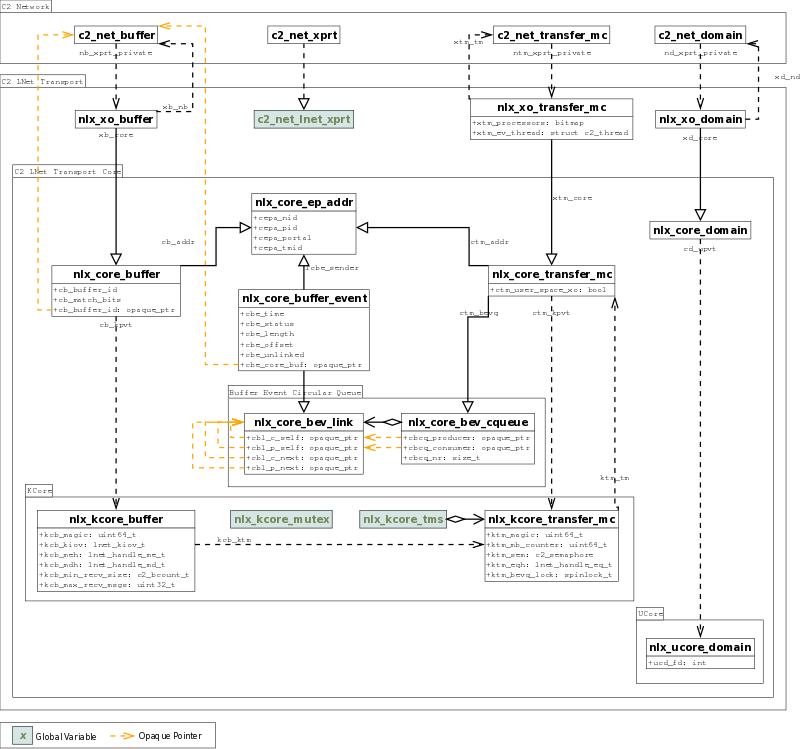
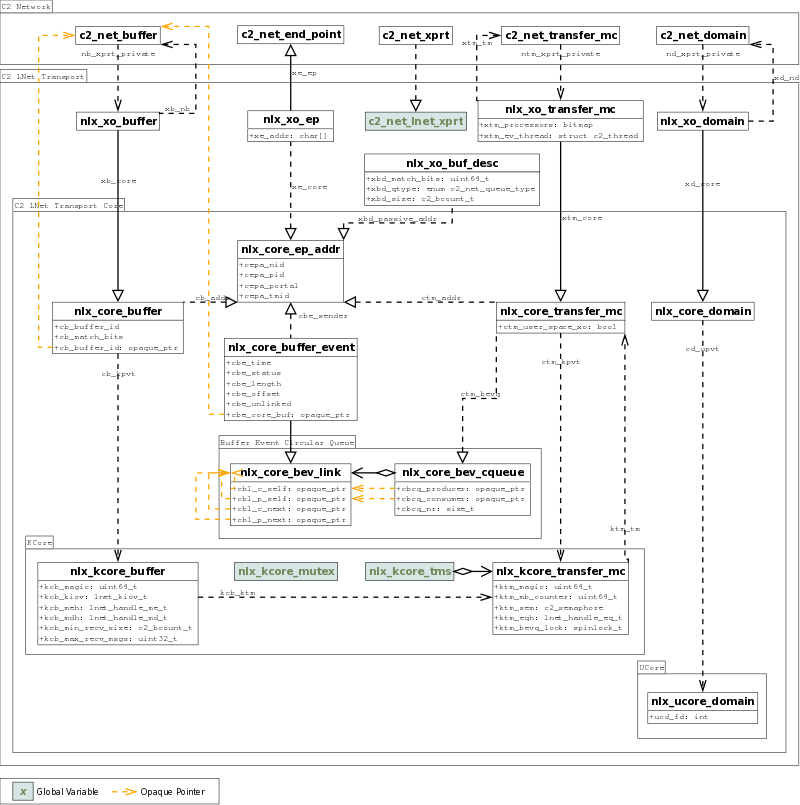
Checkpoint. - Added ep and nbd xo data structures. - Added xo layer data structures to figure. - Fixed field naming in xo data structures.

diff --git a/net/lnet/lnet_xo.h b/net/lnet/lnet_xo.h
@@ -31,9 +31,46 @@
    @{
 */
 
-struct nlx_xo_domain;
-struct nlx_xo_transfer_mc;
+struct nlx_xo_buf_desc;
 struct nlx_xo_buffer;
+struct nlx_xo_domain;
+struct nlx_xo_ep;
+struct nlx_xo_transfer_mc;
+
+/**
+   LNet transport's internal end point structure.
+ */
+struct nlx_xo_ep {
+	/** embedded network end point structure. */
+	struct c2_net_end_point xe_ep;
+
+	/** LNet transport address */
+	nlx_core_ep_addr        xe_core;
+
+	/** Memory for the string representation of the end point.
+	    Additional contiguous memory is allocated beyond this array.
+	    The nxe_ep::nep_addr field points to @c nxe_addr.
+	*/
+	char                    xe_addr[1];
+};
+
+/**
+   Internal form of the LNet transport's Network Buffer Descriptor.
+   The external form is the opaque c2_net_buf_desc.
+ */
+struct nlx_xo_buf_desc {
+	/** Match bits of the passive buffer */
+        uint64_t                 xbd_match_bits;
+
+	/** Passive TM's end point */
+        struct nlx_core_ep_addr  xbd_passive_ep;
+
+	/** Passive buffer queue type */
+        enum c2_net_queue_type   xbd_qtype;
+
+	/** Passive buffer size */
+        c2_bcount_t              xbd_size;
+};
 
 /**
    Private data pointed to by c2_net_domain::nd_xprt_private.

diff --git a/net/lnet/lnet_xo.c b/net/lnet/lnet_xo.c
@@ -160,9 +160,9 @@
    The transport defines the following structure to encode an end point address:
    @code
    struct nlx_xo_ep {
-       struct c2_net_end_point nxe_ep;
-       nlx_core_ep_addr        nxe_core;
-       char                    nxe_addr[1];
+       struct c2_net_end_point xe_ep;
+       nlx_core_ep_addr        xe_core;
+       char                    xe_addr[1];
    };
    @endcode
    The length of the structure depends on the length of the string
@@ -277,7 +277,7 @@
         struct nlx_core_ep_addr  xbd_active_ep;
         struct nlx_core_ep_addr  xbd_passive_ep;
         enum c2_net_queue_type   xbd_qtype;
-        c2_bcount_t              xbd_total;
+        c2_bcount_t              xbd_size;
    };
    @endcode
 
